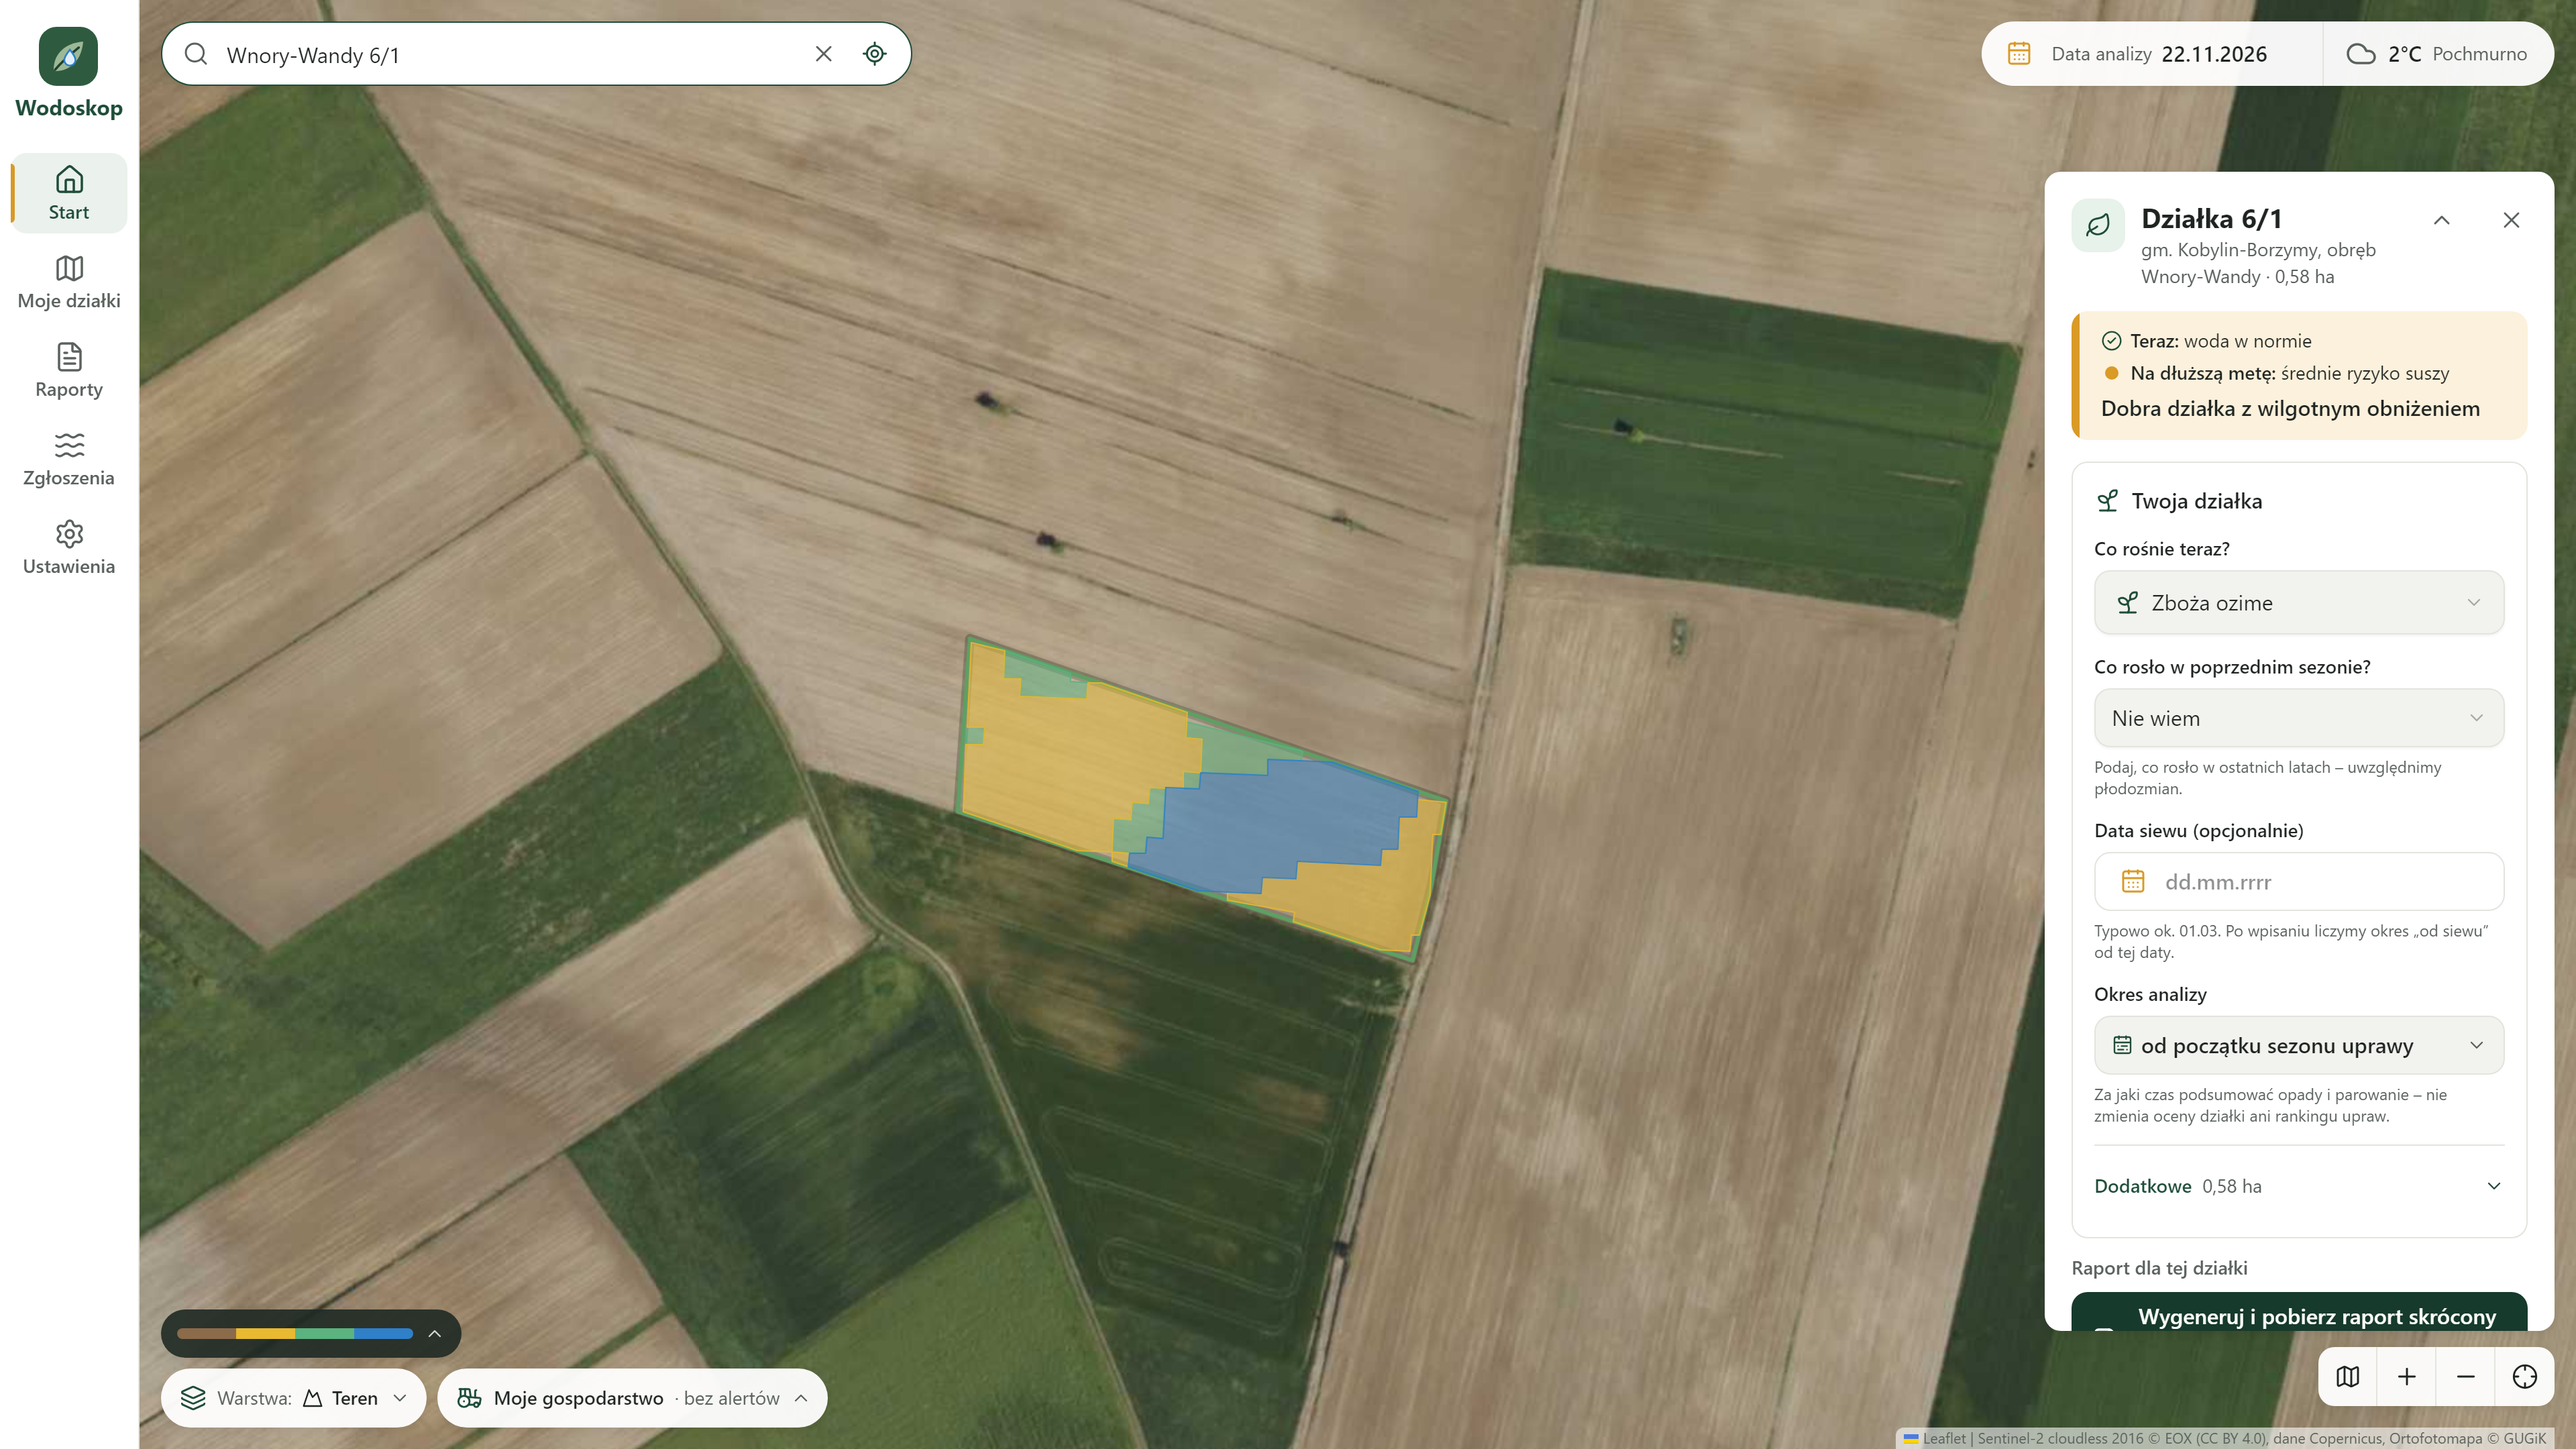
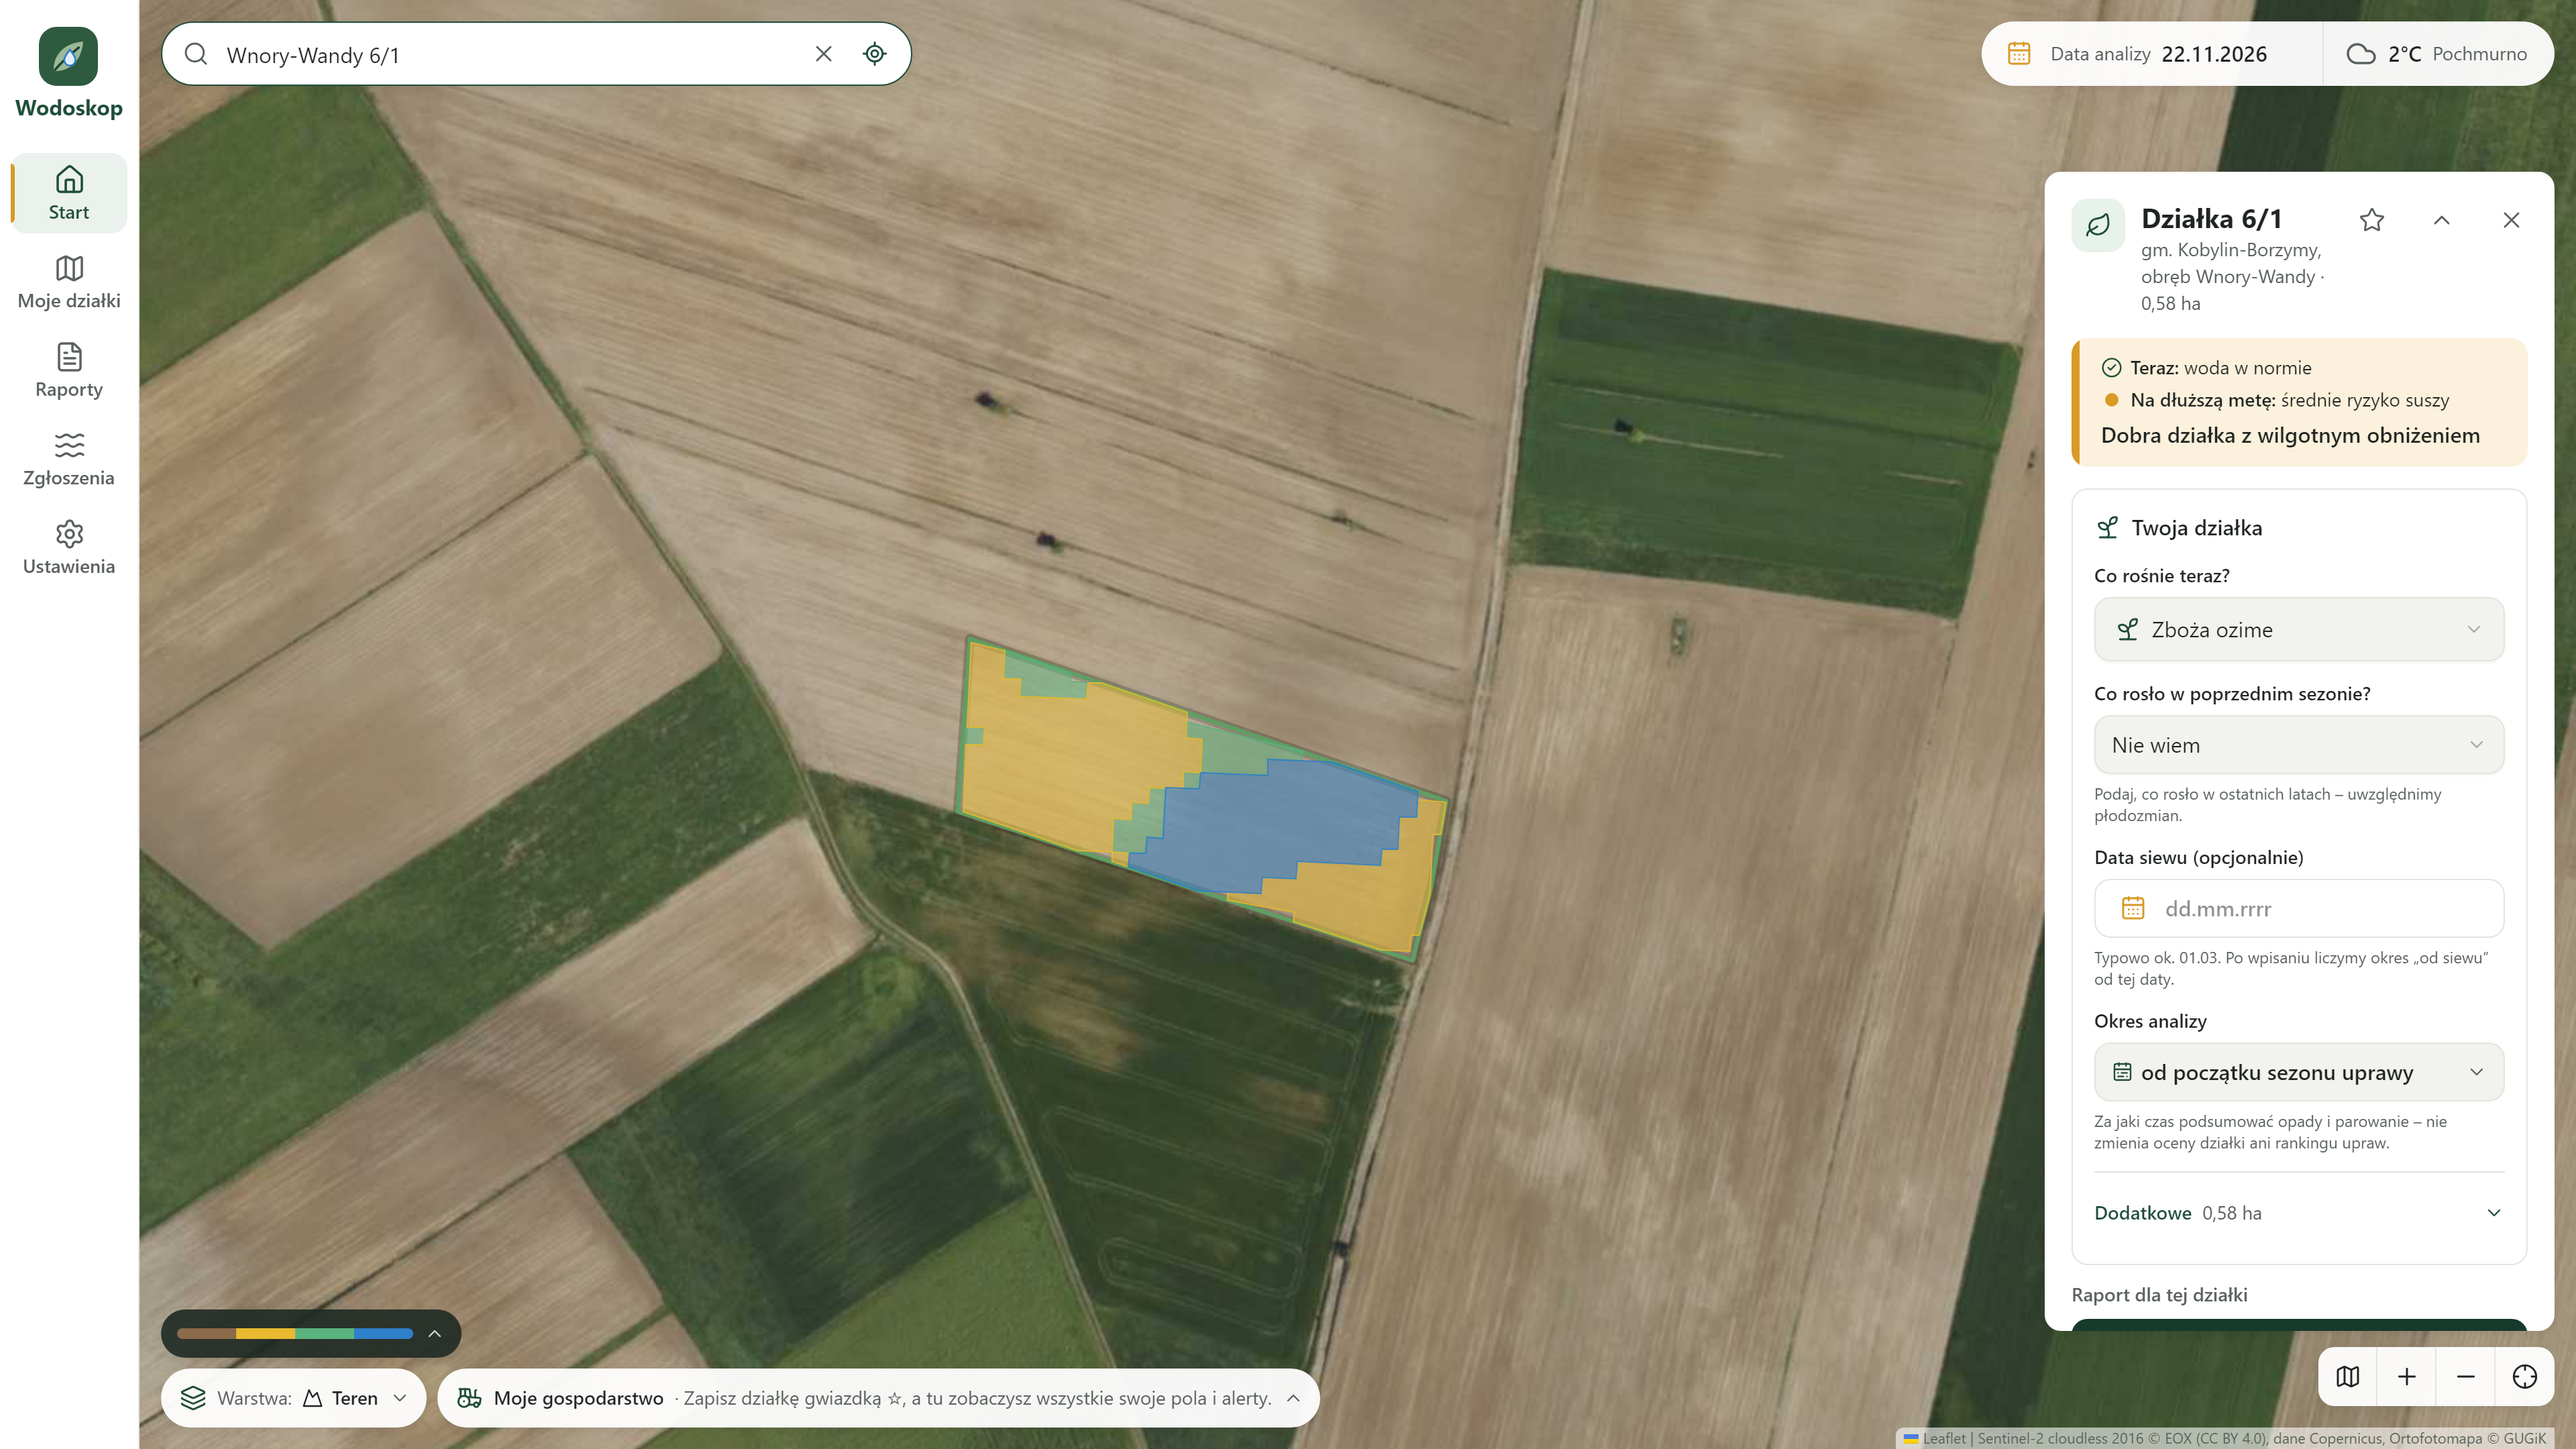
Zrzuty po F36: 02-mapa-panel, nowe 13-moje-gospodarstwo i 14-moje-dzialki (cztery działki zapisane gwiazdką); skrypt zrzutów uzupełniony

Changed region(s): [[0.7812, 0.1861, 1.0, 0.9306], [0.2812, 0.9306, 0.5312, 0.9926]]

diff --git a/scripts/screens/shoot.ts b/scripts/screens/shoot.ts
@@ -264,6 +264,28 @@ const SHOTS: Shot[] = [
       await sheetTo(page, /pełny/)
     },
   },
+  {
+    // „Moje gospodarstwo”: cztery działki zapisane gwiazdką (prawdziwe analizy), dolny pasek rozwinięty;
+    // po drodze zapisuje też ekran „Moje działki” jako 14-moje-dzialki.png
+    name: '13-moje-gospodarstwo',
+    device: 'desktop',
+    run: async (page) => {
+      for (const id of [P2, '302408_5.0017.70/4', P_WATER, P1]) {
+        await openParcel(page, { dzialka: id, uprawa: 'zboza_ozime' })
+        const star = page.getByRole('button', { name: 'Zapisz w Moich działkach' })
+        if (await star.isVisible().catch(() => false)) await star.click()
+        await page.waitForTimeout(500)
+      }
+      await page.getByRole('button', { name: 'Moje działki', exact: true }).click()
+      await page.getByRole('heading', { name: /Moje działki/ }).first().waitFor({ timeout: 20_000 })
+      await settled(page, 30_000)
+      await save(page, '14-moje-dzialki')
+      await openParcel(page, TODAY)
+      await page.getByRole('button', { name: /^Moje gospodarstwo/ }).click()
+      await settled(page, 30_000)
+      await mapReady(page)
+    },
+  },
 ]
 
 async function context(browser: Browser, device: Shot['device']): Promise<BrowserContext> {
